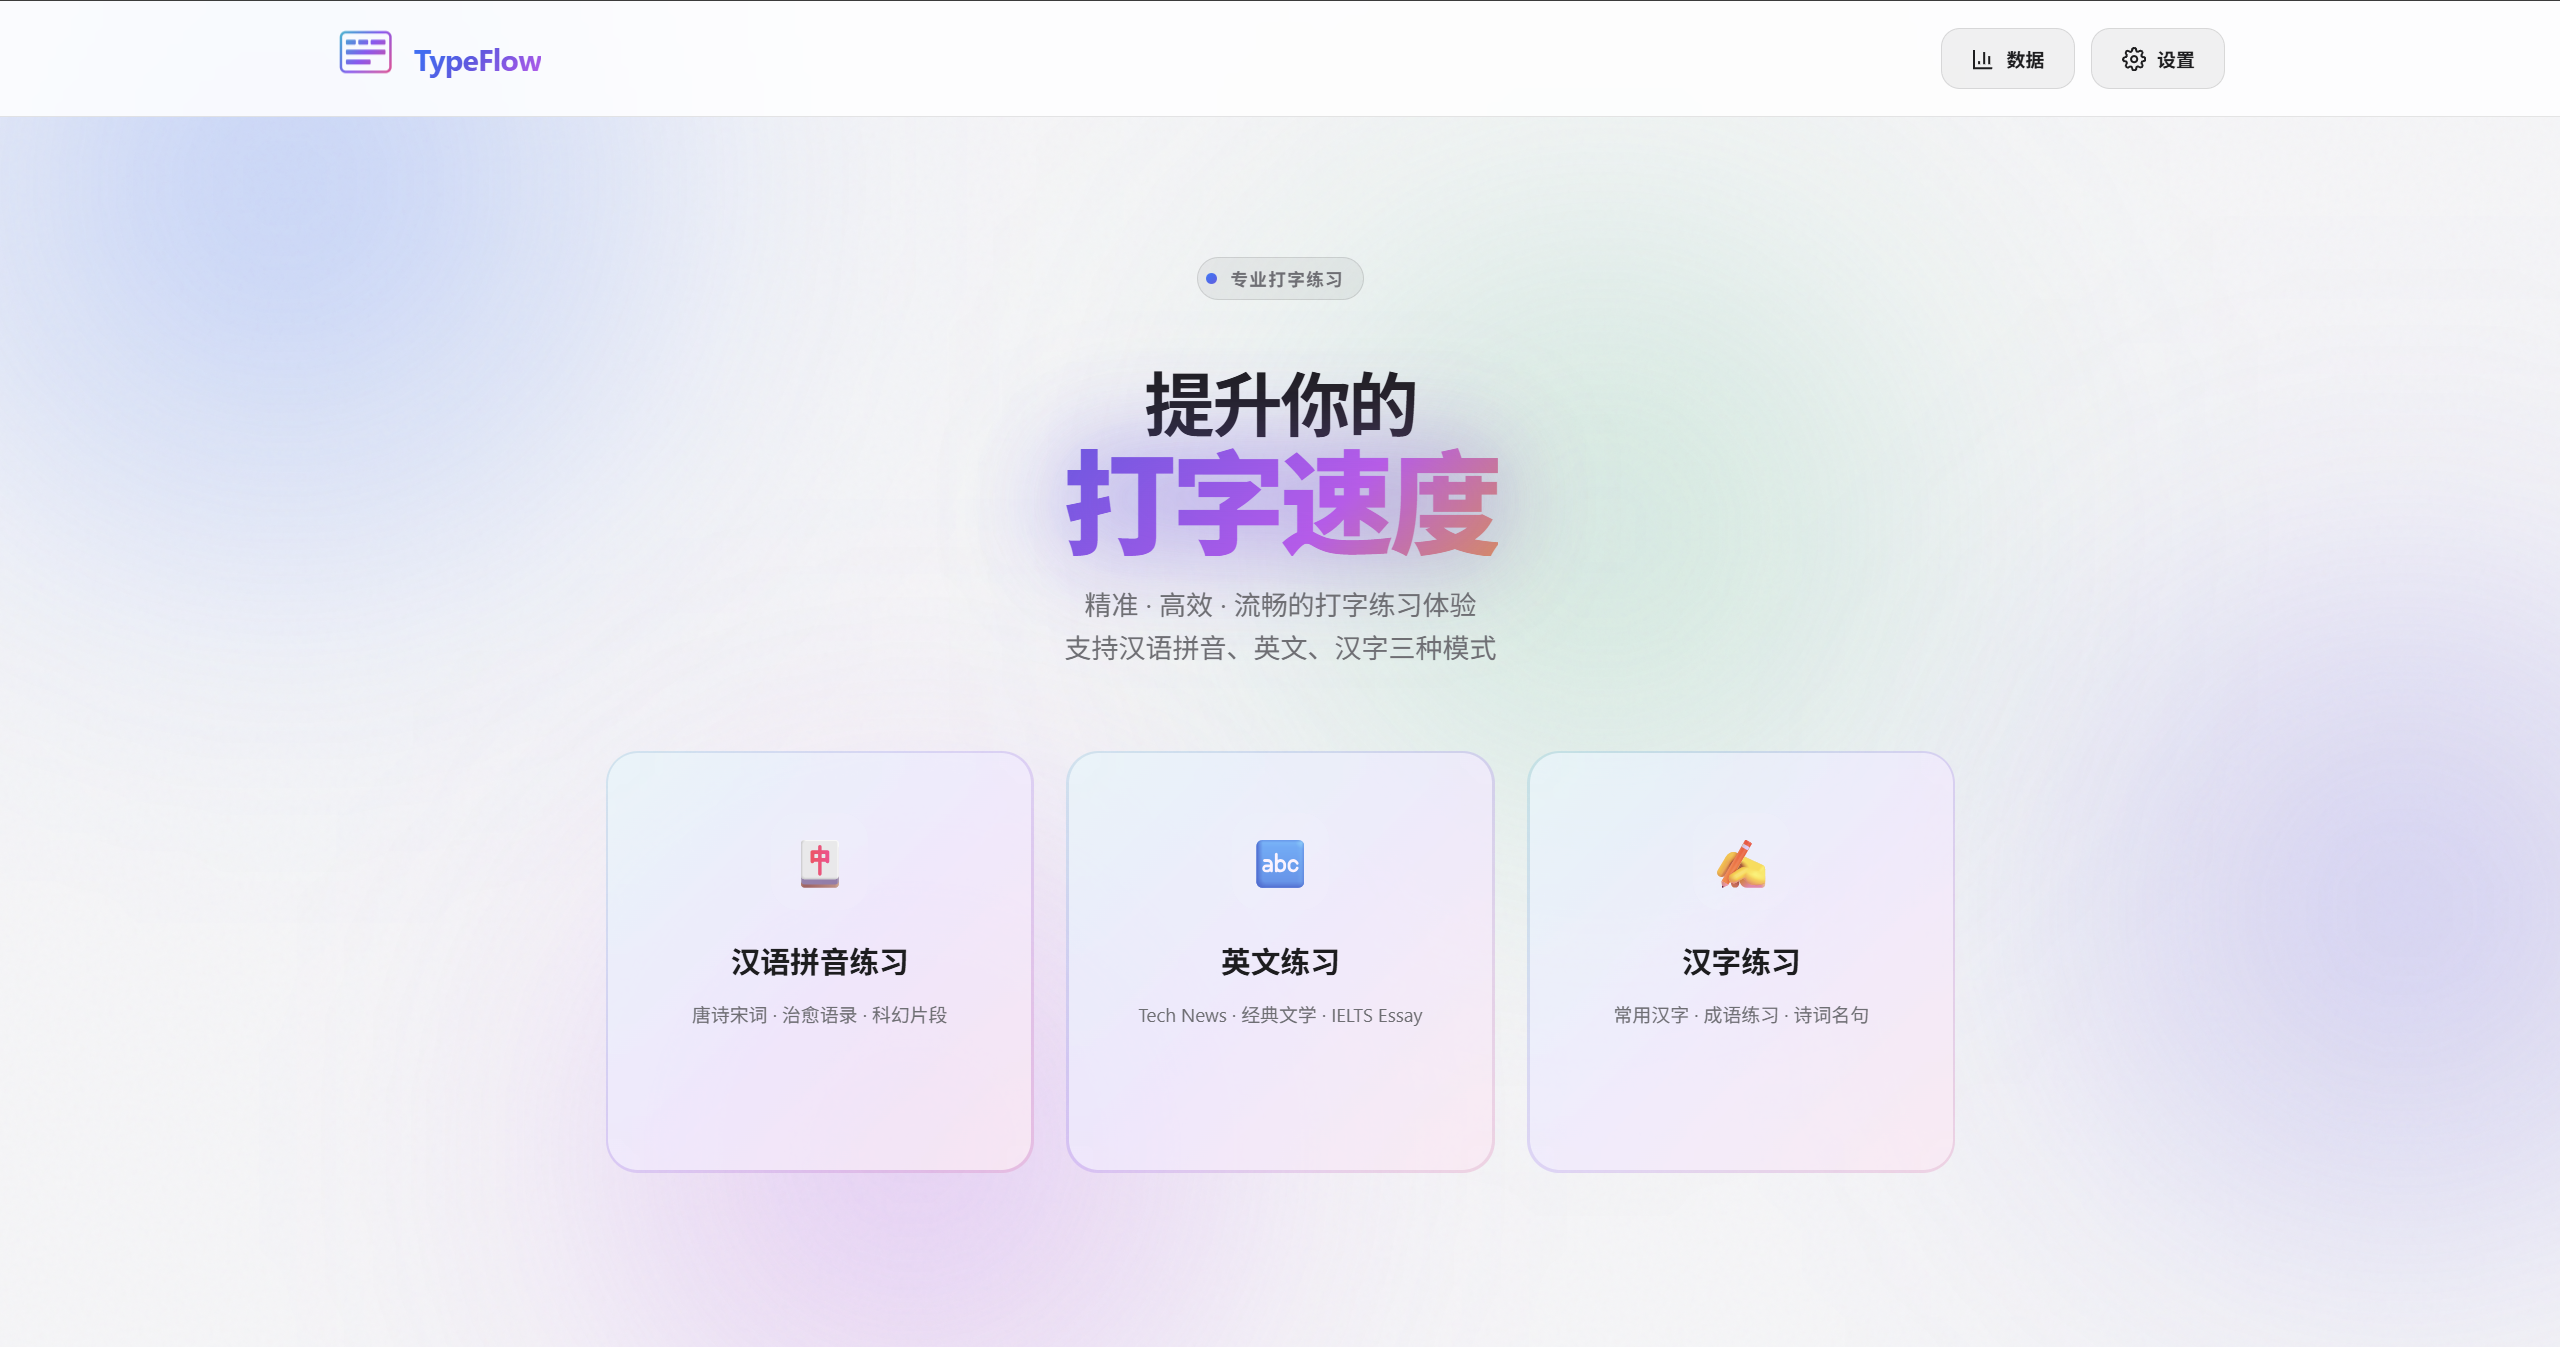
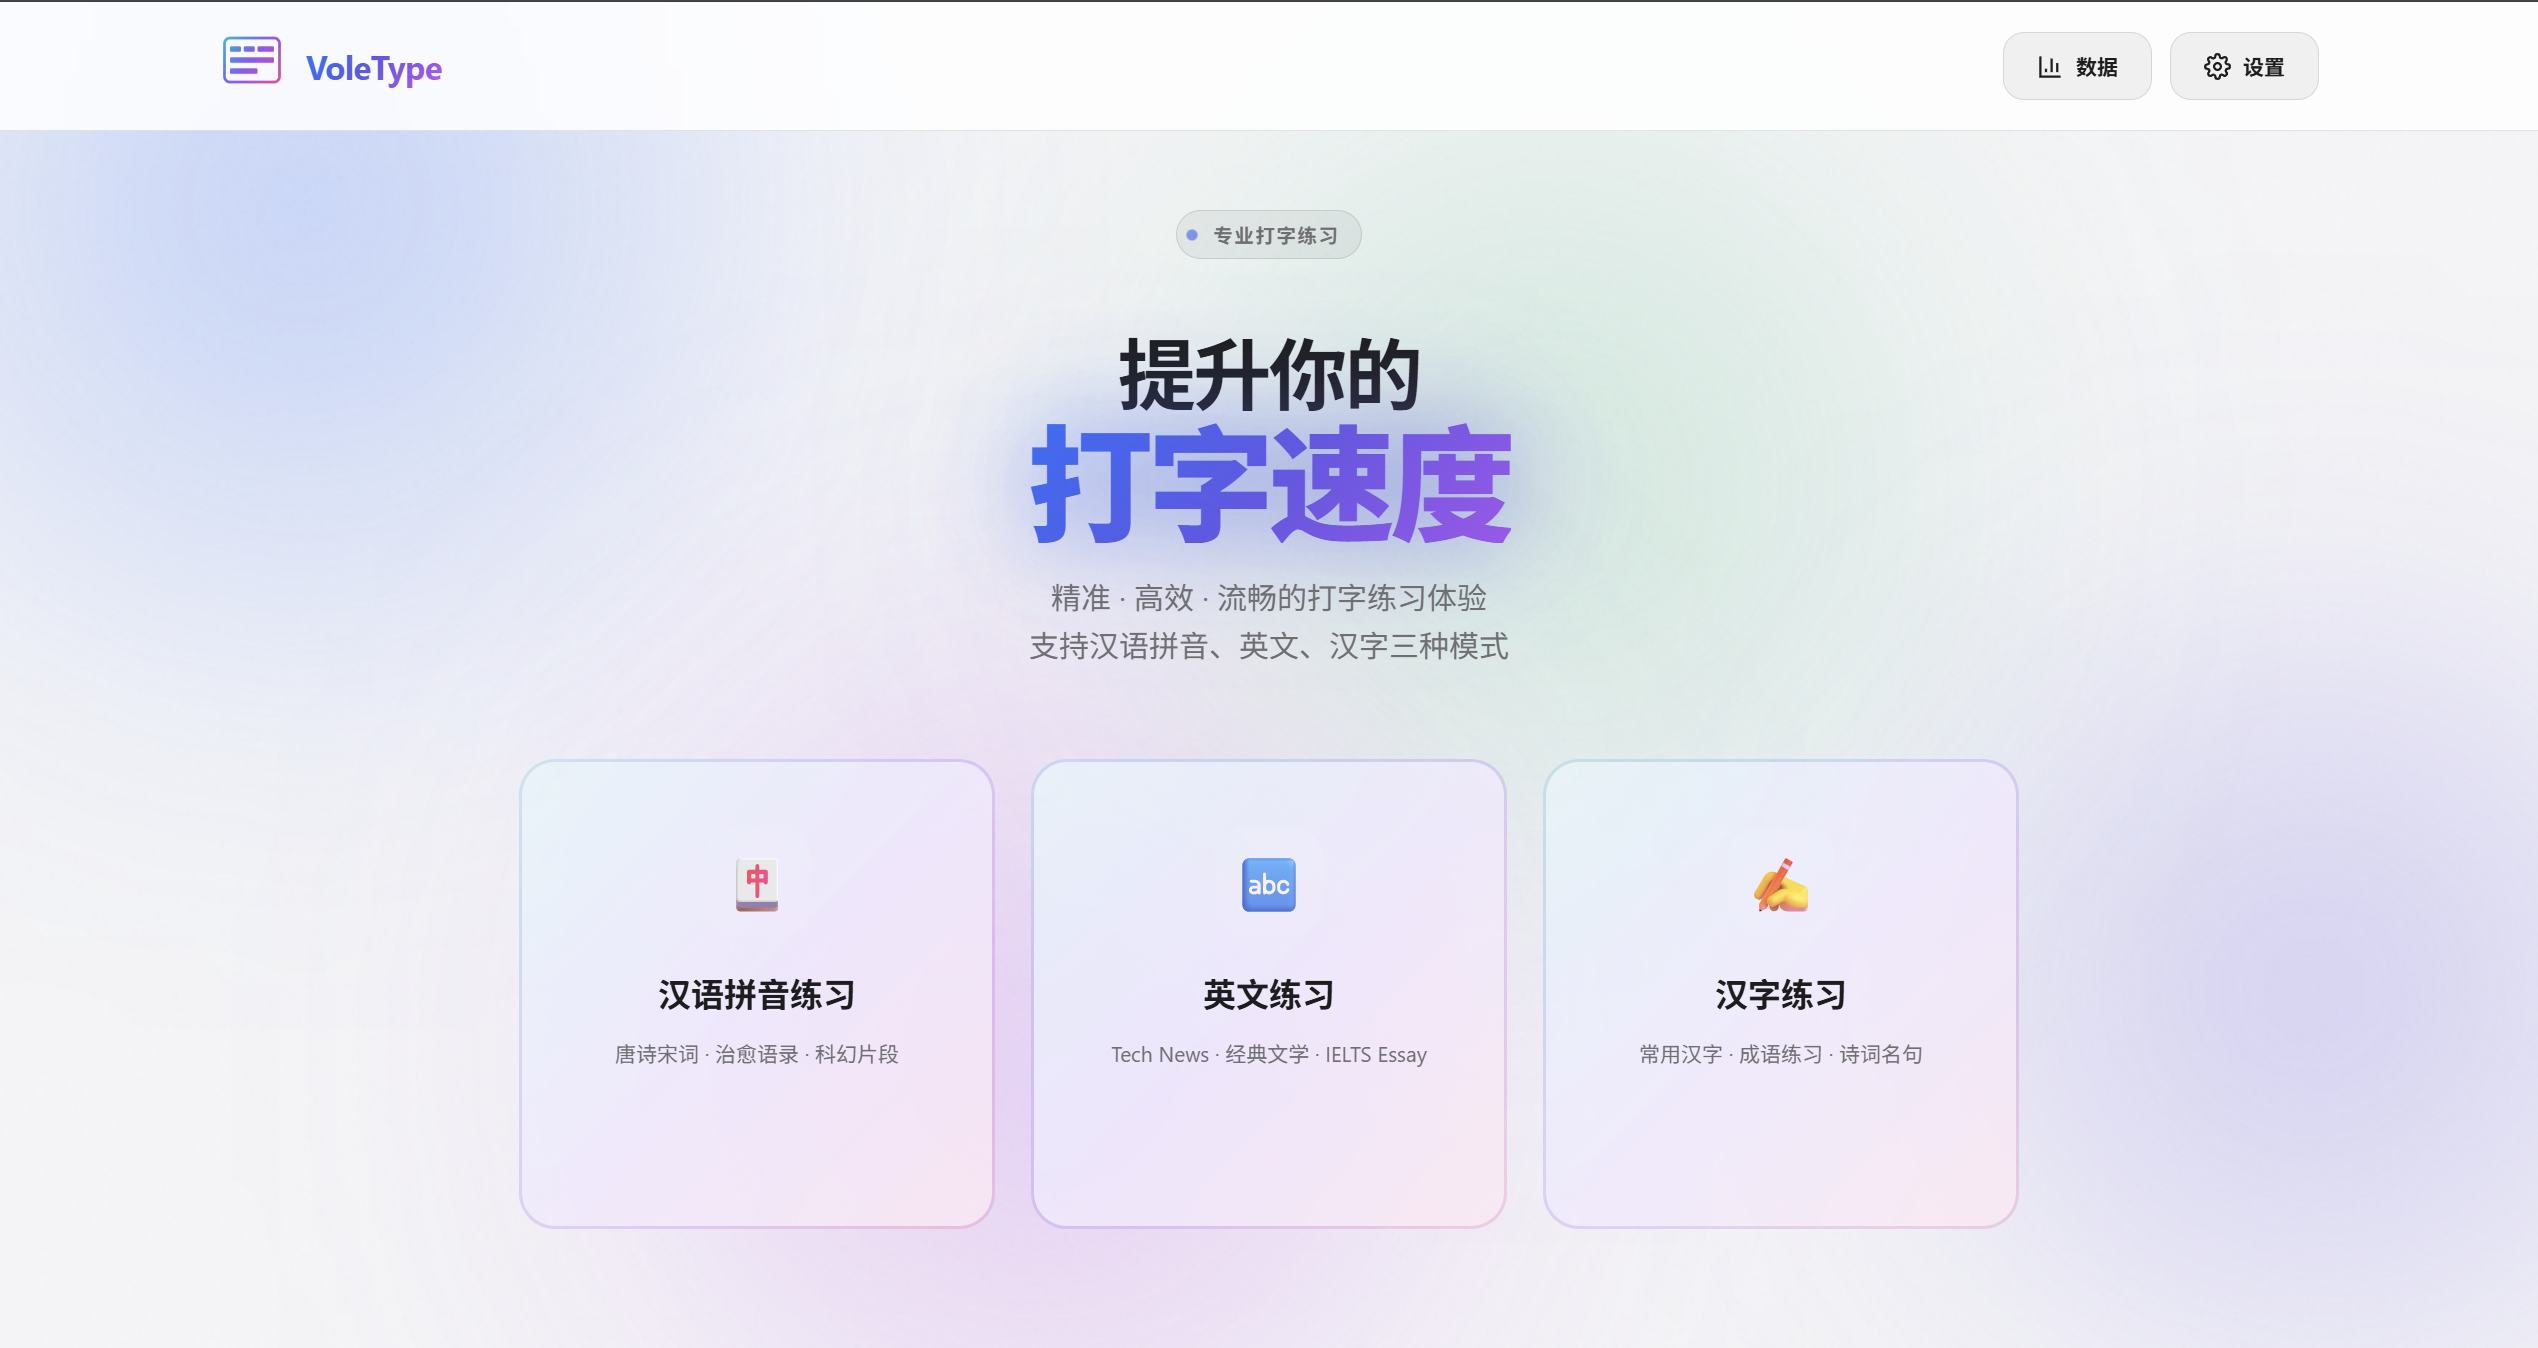
文档更新，样式小改

diff --git a/src/views/Typing/TypingHeader.vue b/src/views/Typing/TypingHeader.vue
@@ -19,7 +19,7 @@
             </defs>
           </svg>
         </div>
-        <span class="brand-text">TypeFlow</span>
+        <span class="brand-text">VoleType</span>
       </div>
 
       <!-- 中间区域：文章标题和作者信息 -->

diff --git a/src/views/Home/index.vue b/src/views/Home/index.vue
@@ -28,7 +28,7 @@
               </defs>
             </svg>
           </div>
-          <span class="brand-text">TypeFlow</span>
+          <span class="brand-text">VoleType</span>
         </div>
 
         <div class="nav-actions">

diff --git a/src/components/SettingsPanel.vue b/src/components/SettingsPanel.vue
@@ -700,6 +700,7 @@ defineExpose({
   padding: 16px 20px;
   background: var(--bg-secondary);
   border-radius: 14px;
+  margin-bottom: 18px;
 }
 
 .master-toggle-left {

diff --git a/README.md b/README.md
@@ -29,6 +29,7 @@
 ![首页预览](./screenshots/home.png)
 ![英文练习](./screenshots/english-practice.png)
 ![中文拼音练习](./screenshots/pinyin-practice.png)
+![汉字专项练习](./screenshots/hanzi-practice.png)
 ![成绩统计](./screenshots/stats.png)
 
 
@@ -97,13 +98,6 @@ Type-test/
 ├── src/
 │   ├── assets/                    # 静态资源目录
 │   │   ├── audios/               # 音效文件
-│   │   │   ├── duck.mp3          # 鸭子音效
-│   │   │   ├── dog.mp3           # 狗叫音效
-│   │   │   ├── koubanji.mp3      # 口扳机音效
-│   │   │   ├── tengtong.mp3      # 疼痛音效
-│   │   │   ├── 点击音效.mp3       # 点击音效
-│   │   │   ├── 胜利号角.mp3       # 胜利音效
-│   │   │   └── 街机游戏按钮.mp3    # 街机按钮音效
 │   │   └── vue.svg               # Vue Logo
 │   │
 │   ├── components/               # Vue 组件目录
@@ -266,11 +260,6 @@ npm run preview
 - **自定义 Prompt**：支持用户自定义提示词，灵活控制生成内容
 - **流式生成**：实时显示生成进度，提升用户体验
 - **本地存储**：生成的文章自动保存，支持重复使用
-
-AI 生成模块核心文件：
-- `src/components/AIGenerator.vue` - AI 生成器 UI 组件
-- `src/stores/ai.ts` - AI 状态管理和 API 调用
-- `src/types/ai.ts` - AI 相关类型定义和主题配置
 
 ### 实时统计计算
 - **WPM** (Words Per Minute) - 每分钟单词数
